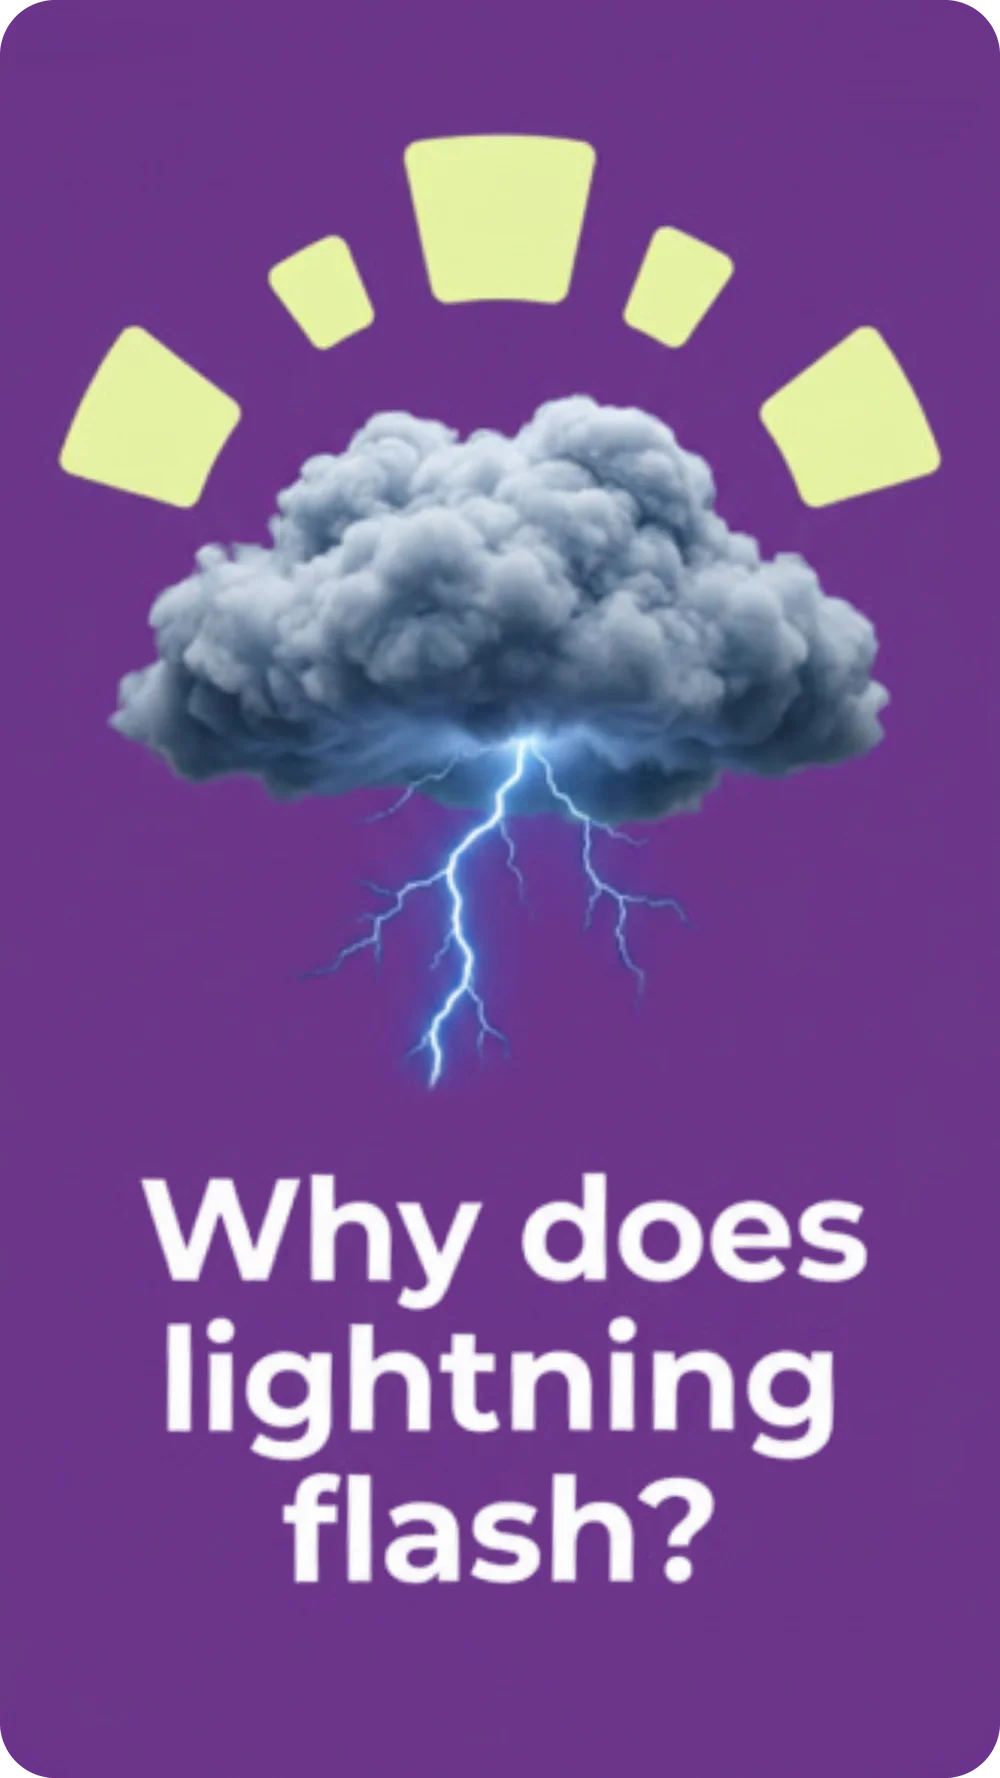
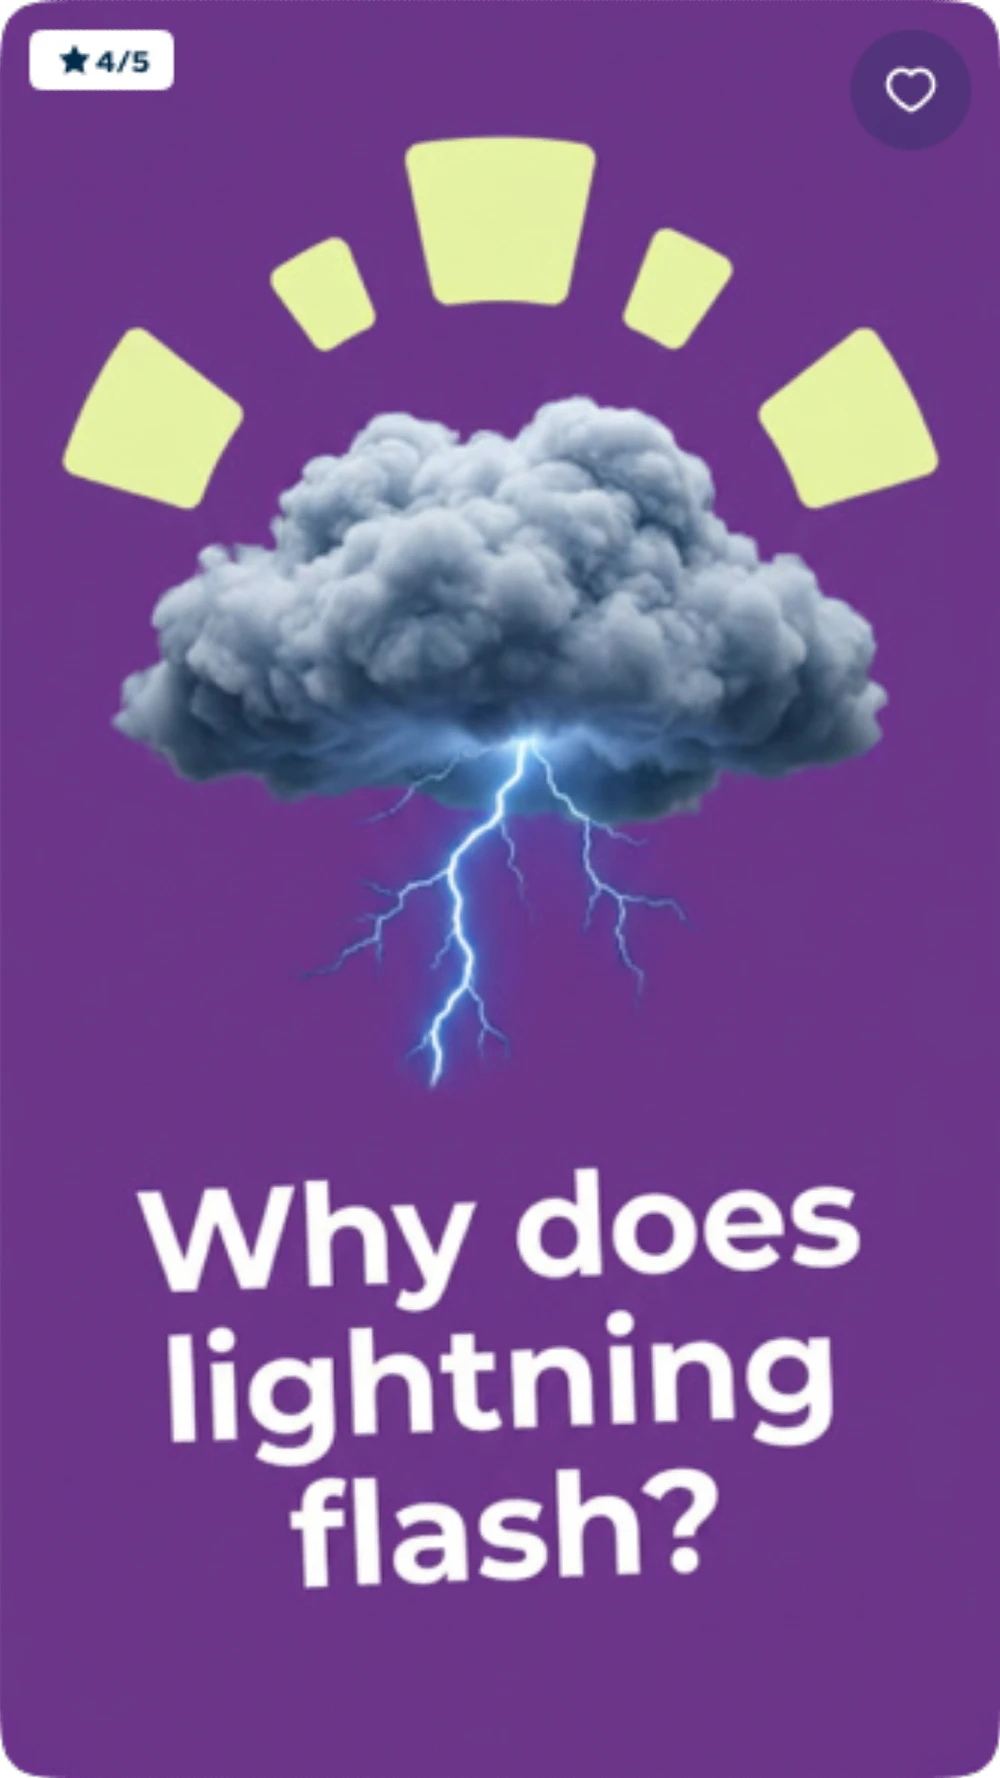
Seed media v14: flat learning cards

diff --git a/README.md b/README.md
@@ -37,3 +37,11 @@ Every older URL stays valid.
 ## v13 — mobile FAQ card with a transparent background
 `mobile/discover_faq` replaced with a new 1920 × 1280 export with a transparent background (the v12
 picture was opaque). Every other file is unchanged from v12, so every older URL stays valid.
+
+## v14 — flat learning cards
+Seven `explore/learning` cards replaced with new flat-style exports, same paths:
+`how-do-bats-see-in-the-dark`, `how-do-birds-know-where-to-go` (564 × 1002),
+`how-do-chameleons-change-color`, `how-does-a-sundial-tell-time-with-the-sun`,
+`why-are-all-fingerprints-unique`, `why-do-cats-always-land-on-their-feet` and
+`why-does-lightning-flash` (1000 × 1778). Every other file is unchanged from v13, so every older URL
+stays valid.
